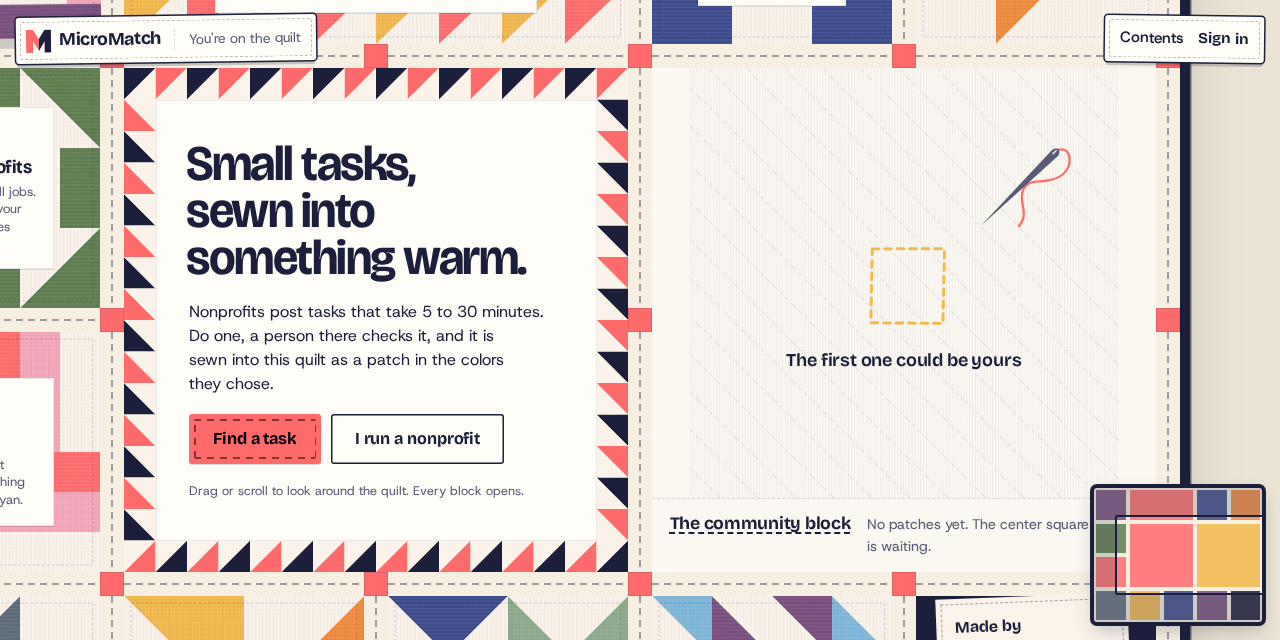
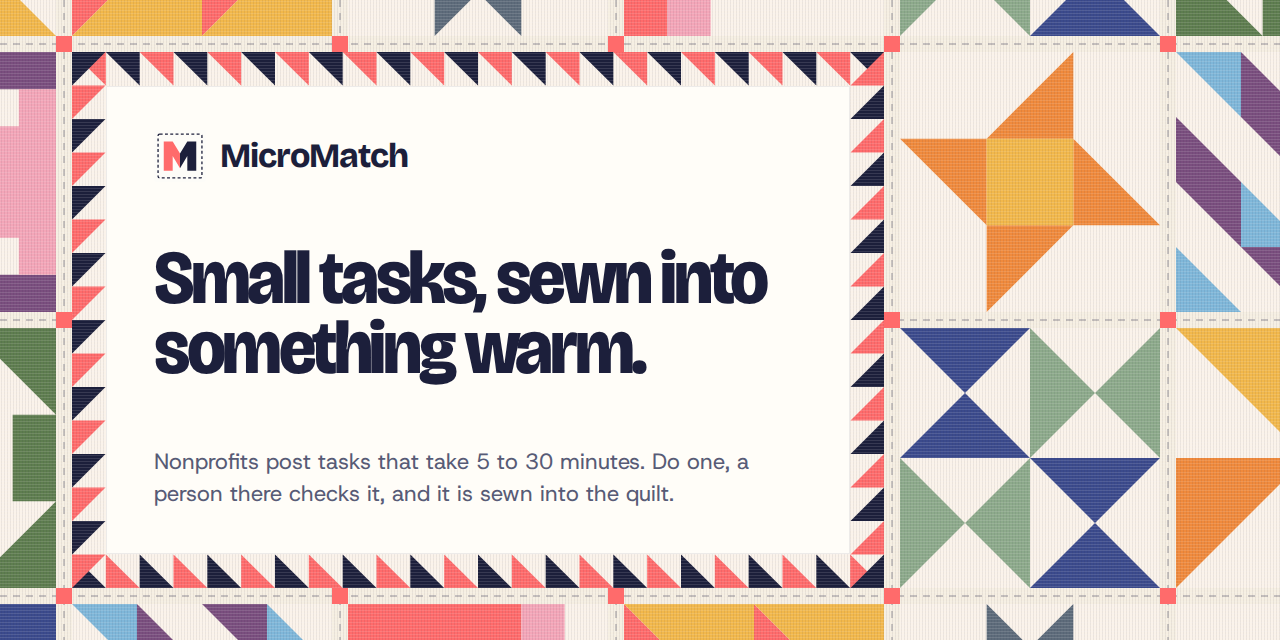
feat(brand): design the repo social preview card
The page capture made a poor repo card. Cropped to 1280 x 640 it cut
blocks in half, put the minimap over the community caption and left the
mark a few pixels wide. The card is now drawn in
design/social-preview.html from the sampler geometry and the mark, with
a title block three cells wide so the name and headline lead. DESIGN.md
and the journal say how to render it.

diff --git a/design/social-preview.html b/design/social-preview.html
@@ -1,0 +1,116 @@
+<!doctype html>
+<!--
+  The GitHub social preview card (1280 x 640). Render it to static/social-preview.png with a
+  1280 x 640 viewport screenshot once the fonts have loaded. The quilt is drawn from the
+  sampler geometry in glaxnimate/sampler-blocks.svg and the mark from glaxnimate/brand.svg.
+-->
+<html lang="en">
+<head>
+<meta charset="utf-8" />
+<title>MicroMatch social preview</title>
+<style>
+  @font-face { font-family: 'Bricolage'; src: url('../static/fonts/bricolage-200_800-normal.woff2') format('woff2'); font-weight: 200 800; font-stretch: 75% 100%; }
+  @font-face { font-family: 'Host'; src: url('../static/fonts/host-300_800-normal.woff2') format('woff2'); font-weight: 300 800; }
+  html, body { margin: 0; }
+  body { width: 1280px; height: 640px; overflow: hidden; position: relative; background: #ebe3d3; color: #1c1f3b; }
+  svg.quilt { position: absolute; inset: 0; }
+  .sig {
+    position: absolute; left: 106px; top: 86px; width: 744px; height: 468px; box-sizing: border-box;
+    padding: 44px 48px; display: grid; align-content: space-between;
+    background: #fffdf8; box-shadow: inset 0 0 0 1px rgb(28 31 59 / 0.08);
+  }
+  .brand { display: flex; align-items: center; gap: 14px; font: 760 34px/1 'Bricolage', sans-serif; letter-spacing: -0.03em; }
+  .brand svg { width: 52px; height: 52px; }
+  h1 span { display: block; }
+  h1 {
+    margin: 0; font: 800 76px/0.92 'Bricolage', sans-serif; font-stretch: 92%;
+    font-variation-settings: 'opsz' 96; letter-spacing: -0.045em;
+  }
+  p { margin: 0; font: 400 22px/1.45 'Host', sans-serif; color: #575b76; max-width: 46ch; }
+</style>
+</head>
+<body>
+<svg class="quilt" width="1280" height="640" viewBox="0 0 1280 640" aria-hidden="true">
+  <defs>
+    <pattern id="weave" width="6" height="6" patternUnits="userSpaceOnUse"><path d="M1.5 0v6M4.5 0v6" stroke="#1C1F3B" stroke-opacity="0.07" /><path d="M0 1.5h6M0 4.5h6" stroke="#FDFCF8" stroke-opacity="0.12" /></pattern>
+  </defs>
+  <g id="quilt"></g>
+</svg>
+
+<div class="sig">
+  <div class="brand">
+    <svg viewBox="0 0 64 64" aria-hidden="true"><rect width="64" height="64" rx="4" fill="#FDFCF8" /><rect x="5" y="5" width="54" height="54" rx="2" fill="none" stroke="#1C1F3B" stroke-width="1.6" stroke-dasharray="3.6 2.9" /><g transform="translate(12 14)"><path d="M0 36V0h11l9 15v18l-9-15v18z" fill="#FF6B6B" /><path d="M40 36V0H29l-9 15v18l9-15v18z" fill="#1C1F3B" /></g></svg>
+    MicroMatch
+  </div>
+  <h1><span>Small tasks, sewn into</span> <span>something warm.</span></h1>
+  <p>Nonprofits post tasks that take 5 to 30 minutes. Do one, a person there checks it, and it is sewn into the quilt.</p>
+</div>
+
+<script>
+  // Sampler blocks from glaxnimate/sampler-blocks.svg, each on a 100 x 100 grid.
+  const BLOCKS = {
+    ninePatch: [['M0 0L33.33 0L33.33 33.33L0 33.33ZM66.67 0L100 0L100 33.33L66.67 33.33ZM33.33 33.33L66.67 33.33L66.67 66.67L33.33 66.67ZM0 66.67L33.33 66.67L33.33 100L0 100ZM66.67 66.67L100 66.67L100 100L66.67 100Z', '#3B4A8C']],
+    railFence: [['M0 0L50 0L50 16.67L0 16.67ZM50 0L66.67 0L66.67 50L50 50ZM0 50L16.67 50L16.67 100L0 100ZM50 50L100 50L100 66.67L50 66.67Z', '#FF6B6B'], ['M0 16.67L50 16.67L50 33.33L0 33.33ZM66.67 0L83.33 0L83.33 50L66.67 50ZM16.67 50L33.33 50L33.33 100L16.67 100ZM50 66.67L100 66.67L100 83.33L50 83.33Z', '#F4A6B8']],
+    pinwheel: [['M0 0L50 0L50 50ZM100 100L50 100L50 50Z', '#F2B84B'], ['M100 0L100 50L50 50ZM0 100L0 50L50 50Z', '#F08A3C']],
+    geese: [['M0 0L50 50L0 100ZM50 0L100 50L50 100Z', '#FF6B6B'], ['M0 0L50 0L50 50ZM0 100L50 100L50 50ZM50 0L100 0L100 50ZM50 100L100 100L100 50Z', '#F2B84B']],
+    churnDash: [['M0 0L33.33 0L0 33.33ZM66.67 0L100 0L100 33.33ZM0 66.67L33.33 100L0 100ZM100 66.67L100 100L66.67 100ZM33.33 0L66.67 0L66.67 16.67L33.33 16.67ZM33.33 83.33L66.67 83.33L66.67 100L33.33 100ZM0 33.33L16.67 33.33L16.67 66.67L0 66.67ZM83.33 33.33L100 33.33L100 66.67L83.33 66.67Z', '#5E7D4F'], ['M33.33 33.33L66.67 33.33L66.67 66.67L33.33 66.67Z', '#8DAA8B']],
+    friendshipStar: [['M66.67 0L66.67 33.33L33.33 33.33ZM66.67 33.33L100 66.67L66.67 66.67ZM33.33 66.67L66.67 66.67L33.33 100ZM0 33.33L33.33 33.33L33.33 66.67Z', '#F08A3C'], ['M33.33 33.33L66.67 33.33L66.67 66.67L33.33 66.67Z', '#F2B84B']],
+    ohioStar: [['M66.67 0L66.67 33.33L50 16.67ZM33.33 33.33L33.33 0L50 16.67ZM66.67 66.67L66.67 100L50 83.33ZM33.33 100L33.33 66.67L50 83.33ZM0 33.33L33.33 33.33L16.67 50ZM33.33 66.67L0 66.67L16.67 50ZM66.67 33.33L100 33.33L83.33 50ZM100 66.67L66.67 66.67L83.33 50Z', '#5D6B7A'], ['M33.33 33.33L66.67 33.33L66.67 66.67L33.33 66.67Z', '#7FB7D9']],
+    courthouse: [['M0 0L100 0L100 14.29L0 14.29ZM0 85.71L100 85.71L100 100L0 100ZM28.57 28.57L71.43 28.57L71.43 42.86L28.57 42.86ZM28.57 57.14L71.43 57.14L71.43 71.43L28.57 71.43ZM42.86 42.86L57.14 42.86L57.14 57.14L42.86 57.14Z', '#7A4E7E'], ['M0 14.29L14.29 14.29L14.29 85.71L0 85.71ZM85.71 14.29L100 14.29L100 85.71L85.71 85.71ZM14.29 28.57L28.57 28.57L28.57 71.43L14.29 71.43ZM71.43 28.57L85.71 28.57L85.71 71.43L71.43 71.43ZM28.57 42.86L42.86 42.86L42.86 57.14L28.57 57.14ZM57.14 42.86L71.43 42.86L71.43 57.14L57.14 57.14Z', '#F4A6B8']],
+    hourglass: [['M0 0L50 0L25 25ZM50 50L0 50L25 25ZM50 50L100 50L75 75ZM100 100L50 100L75 75Z', '#3B4A8C'], ['M100 0L100 50L75 25ZM50 50L50 0L75 25ZM50 50L50 100L25 75ZM0 100L0 50L25 75Z', '#8DAA8B']],
+    triangles: [['M25 0L50 25L25 25ZM50 0L75 0L75 25ZM0 25L25 50L0 50ZM25 25L50 25L50 50ZM75 25L100 25L100 50ZM0 50L25 50L25 75ZM50 50L75 50L75 75ZM75 50L100 75L75 75ZM25 75L50 75L50 100ZM50 75L75 100L50 100Z', '#7A4E7E'], ['M0 0L25 0L25 25ZM75 0L100 25L75 25ZM50 25L75 50L50 50ZM25 50L50 75L25 75ZM0 75L25 100L0 100ZM75 75L100 75L100 100Z', '#7FB7D9']]
+  };
+  // The title block (3 x 2 cells) sits whole inside the card; the sampler runs off every edge.
+  const CELL = 260, SASH = 16, PITCH = CELL + SASH, X0 = 72, Y0 = 52;
+  const LAYOUT = {
+    '-1,-1': 'pinwheel', '0,-1': 'geese', '1,-1': 'ohioStar', '2,-1': 'railFence', '3,-1': 'hourglass', '4,-1': 'churnDash',
+    '-1,0': 'courthouse', '3,0': 'friendshipStar', '4,0': 'triangles',
+    '-1,1': 'churnDash', '3,1': 'hourglass', '4,1': 'pinwheel',
+    '-1,2': 'ninePatch', '0,2': 'triangles', '1,2': 'railFence', '2,2': 'geese', '3,2': 'ohioStar', '4,2': 'friendshipStar'
+  };
+  const NS = 'http://www.w3.org/2000/svg';
+  const root = document.getElementById('quilt');
+  const el = (name, attrs, parent = root) => {
+    const node = document.createElementNS(NS, name);
+    for (const [k, v] of Object.entries(attrs)) node.setAttribute(k, v);
+    parent.appendChild(node);
+    return node;
+  };
+  const span = 6 * PITCH + SASH;
+  el('rect', { x: X0 - 2 * PITCH - SASH, y: Y0 - 2 * PITCH - SASH, width: span + PITCH, height: span, fill: '#f6efe2' });
+  for (const [key, name] of Object.entries(LAYOUT)) {
+    const [c, r] = key.split(',').map(Number);
+    const g = el('g', { transform: `translate(${X0 + c * PITCH} ${Y0 + r * PITCH}) scale(${CELL / 100})` });
+    el('rect', { width: 100, height: 100, fill: '#FBF3EA' }, g);
+    for (const [d, fill] of BLOCKS[name]) el('path', { d, fill }, g);
+  }
+  // Weave over the cloth, the quilting line down every sash, and madder cornerstones. The
+  // title block goes on last, over its own inner sash.
+  el('rect', { width: 1280, height: 640, fill: 'url(#weave)' });
+  for (let k = -2; k <= 5; k++) {
+    const x = X0 + k * PITCH - SASH / 2, y = Y0 + k * PITCH - SASH / 2;
+    el('path', { d: `M${x} 0V640`, stroke: '#1C1F3B', 'stroke-opacity': 0.3, 'stroke-width': 1.4, 'stroke-dasharray': '7 6' });
+    el('path', { d: `M0 ${y}H1280`, stroke: '#1C1F3B', 'stroke-opacity': 0.3, 'stroke-width': 1.4, 'stroke-dasharray': '7 6' });
+  }
+  for (let c = -2; c <= 5; c++) for (let r = -2; r <= 3; r++) {
+    el('rect', { x: X0 + c * PITCH - SASH, y: Y0 + r * PITCH - SASH, width: SASH, height: SASH, fill: '#FF6B6B' });
+  }
+  // Sawtooth border of the title block: half-square triangles, madder and indigo by turns.
+  const W = 3 * CELL + 2 * SASH, H = 2 * CELL + SASH, BAND = H / 16, NW = 24, BW = W / NW;
+  const tb = el('g', { transform: `translate(${X0} ${Y0})` });
+  el('rect', { width: W, height: H, fill: '#FBF3EA' }, tb);
+  const tooth = (i) => (i % 2 ? '#1C1F3B' : '#FF6B6B');
+  for (let i = 0; i < NW; i++) {
+    const a = i * BW, b = a + BW;
+    el('path', { d: `M${a} 0L${b} 0L${b} ${BAND}Z`, fill: tooth(i) }, tb);
+    el('path', { d: `M${W - a} ${H}L${W - b} ${H}L${W - b} ${H - BAND}Z`, fill: tooth(i) }, tb);
+  }
+  for (let i = 0; i < 16; i++) {
+    const a = i * BAND, b = a + BAND;
+    el('path', { d: `M${W} ${a}L${W} ${b}L${W - BAND} ${b}Z`, fill: tooth(i) }, tb);
+    el('path', { d: `M0 ${H - a}L0 ${H - b}L${BAND} ${H - b}Z`, fill: tooth(i) }, tb);
+  }
+  el('rect', { width: W, height: H, fill: 'url(#weave)' }, tb);
+</script>
+</body>
+</html>

diff --git a/DESIGN.md b/DESIGN.md
@@ -204,9 +204,13 @@ into one. All three forms are drawn in `design/glaxnimate/brand.svg`:
   the way indigo does in the piecing. The madder half stays madder.
 
 The wordmark is "MicroMatch" in the corner tag's type, Bricolage at weight 760. `og.png`
-(1200 x 630) and `social-preview.png` (1280 x 640) are captures of the home quilt in the light
-theme with idle motion held still. Recapture them when the title block or the tag changes. The
-social preview is uploaded by hand in the repository settings.
+(1200 x 630) is a capture of the home quilt in the light theme with idle motion held still.
+Recapture it when the title block or the tag changes.
+
+`social-preview.png` (1280 x 640) is the GitHub repository card, drawn in
+`design/social-preview.html`: a title block three cells wide with the mark, the headline and the
+lede, framed by sampler blocks that run off every edge. Render it with a 1280 x 640 screenshot
+once the fonts load, and upload it by hand in the repository settings.
 
 ### Motion language
 

diff --git a/JOURNAL.md b/JOURNAL.md
@@ -13,9 +13,13 @@ like film sprockets).
 The tag draws the bare M inline instead of loading an image, so its indigo
 half can follow the text color into the dark theme. The favicons, the touch
 icon and the JSON-LD logo are rendered from the SVGs in `static/`. `og.png`
-and `social-preview.png` are new captures of the home quilt. The social
-preview's HTML template went in the clean-slate redesign, and a capture of
-the real page can't fall out of step with it.
+is a new capture of the home quilt.
+
+A capture didn't work for the repo card. Cropped to 1280 x 640 it cut
+blocks in half, put the minimap over the community caption and shrank the
+mark to a few pixels. `social-preview.png` is its own card now, drawn in
+`design/social-preview.html` from the sampler geometry, with the title
+block widened to three cells so the name and headline lead.
 
 ## 2026-10-18 - Prune the unit suite to tests that pin behavior #decision
 
